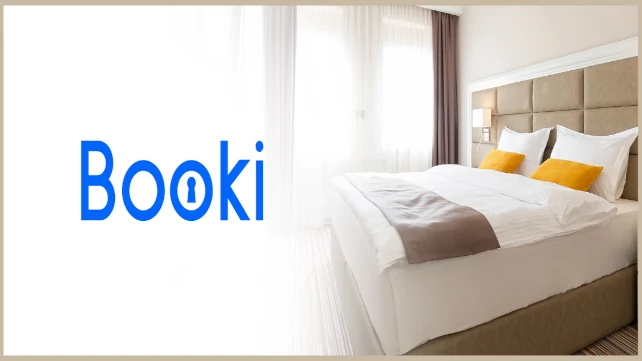
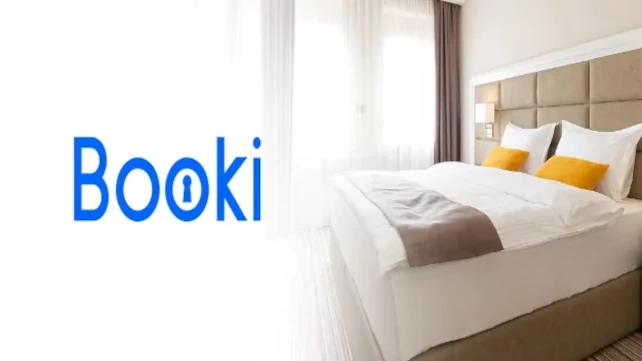
Améliorations des images et du contenu des pages du site (notamment : retouche des images pour une meilleure qualité + export des jpg et png au format webp)

diff --git a/index.html b/index.html
@@ -11,7 +11,7 @@
 <body>
     <!-- COUVERTURE -->
     <header class="cover">
-        <img class="cover-profile" src="images/profile.png"/>
+        <img class="cover-profile" src="images/profile.webp"/>
         <h1>Rafik Ben Sadi</h1>
         <p class="cover-description">Développeur Web & Web Mobile | Javascript - React - Node JS - Express JS - Python - Django</p>
         <div style="text-align: center;">
@@ -34,10 +34,10 @@
         <!-- SECTION BLANCHE -->
         <div class="section" >
             <h2>En savoir plus</h2>
-            <img src="images/profile2.jpg" class="col-contenu">
+            <img src="images/profile2.webp" class="col-contenu">
             <div class="col-contenu float-right">
                 <div class="texte-avec-ligne-verticale">
-                    <p class="texte-profile-description">Développeur FullStack curieux, autodidacte et passionné par les technologies numériques depuis l'enfance, j'ai fait mes premières armes en programmation à 10 ans en apprenant par moi-même les bases du langage C grâce à des ouvrages dénichés dans la bibliothèque paternelle. Après un parcours universitaire d'historien-chercheur, j'ai décidé de me reconvertir dans le développement informatique en suivant les cours sur le langage Python de Jonathan Roux sur Udemy.com. Enfin, je me suis spécialisé dans le développement Web en suivant le parcours diplomant d'OpenClassrooms.com (anciennement Site du Zéro). <br>Au fil de mon parcours dans le développement, j'ai réalisé de nombreux projets très divers : des programmes simples en mode console, par exemple le "Jeu de Maths" pour les écoliers ayant besoin de réviser leurs maths avant un contrôle. J'ai également réalisé des programmes plus complexes comme des logiciels desktop, à l'image de "MrBeat", une boîte à rythmes digitale, ou de "Galaxy", un jeu vidéo de parcours d'un vaisseau spatial en 3D isométrique. Enfin, j'ai réalisé un certain nombre de projets Web et Web mobile, dont vous pouvez avoir un bel aperçu dans la section Portfolio qui suit.</p>
+                    <p class="texte-profile-description">Développeur fullstack curieux, autodidacte et passionné par les technologies numériques depuis l'enfance, j'ai fait mes premières armes en programmation à 10 ans en apprenant par moi-même les bases du langage C grâce à des ouvrages dénichés dans la bibliothèque paternelle. Après un parcours universitaire d'historien-chercheur, j'ai décidé de me reconvertir dans le développement informatique en suivant les cours sur le langage Python de Jonathan Roux sur Udemy.com. Enfin, je me suis spécialisé dans le développement Web en suivant le parcours diplomant d'OpenClassrooms.com (anciennement Site du Zéro). <br>Au fil de mon parcours dans le développement, j'ai réalisé de nombreux projets très divers : des programmes simples en mode console, par exemple le "Jeu de Maths" pour les écoliers ayant besoin de réviser leurs maths avant un contrôle. J'ai également réalisé des programmes plus complexes comme des logiciels desktop, à l'image de "MrBeat", une boîte à rythmes digitale, ou de "Galaxy", un jeu vidéo de parcours d'un vaisseau spatial en 3D isométrique. Enfin, j'ai réalisé un certain nombre de projets Web et Web mobile, dont vous pouvez avoir un bel aperçu dans la section Portfolio qui suit.</p>
                     <a href="#">En savoir plus sur mon profil</a>
                 </div>
             </div>
@@ -49,7 +49,7 @@
             <table class="col-portfolio" style="display: inline-block">
                 <tr>
                     <td><div class="barre-verticale"></div></td>
-                    <td style="width: 100%"><a href="portfolio-site-restaurant.html"><img style="width: 100%" src="images/project1.jpg"></a></td>
+                    <td style="width: 100%"><a href="portfolio-site-restaurant.html"><img style="width: 100%" src="images/pizzamama.webp"></a></td>
                 </tr>
                 <tr>
                     <td></td>
@@ -59,7 +59,7 @@
             <table class="col-portfolio float-right">
                 <tr>
                     <td><div class="barre-verticale"></div></td>
-                    <td style="width: 100%"><a href="portfolio-booki-agence-de-voyage.html"><img style="width: 100%" src="images/booki_project.webp"></a></td>
+                    <td style="width: 100%"><a href="portfolio-booki-agence-de-voyage.html"><img class="image-bordered" style="width: 100%" src="images/booki_project.webp"></a></td>
                 </tr>
                 <tr>
                     <td></td>
@@ -89,7 +89,7 @@
             <table class="col-portfolio" style="display: inline-block">
                 <tr>
                     <td><div class="barre-verticale"></div></td>
-                    <td style="width: 100%"><a href="portfolio-kasa.html"><img style="width: 100%" src="images/kasa_location_immobiliere.webp"></a></td>
+                    <td style="width: 100%"><a href="portfolio-kasa.html"><img class="image-bordered" style="width: 100%" src="images/kasa_location_immobiliere.webp"></a></td>
                 </tr>
                 <tr>
                     <td></td>
@@ -99,7 +99,7 @@
             <table class="col-portfolio float-right">
                 <tr>
                     <td><div class="barre-verticale"></div></td>
-                    <td style="width: 100%"><a href="portfolio-application-mobile-ai.html"><img style="width: 100%" src="images/project2.jpg"></a></td>
+                    <td style="width: 100%"><a href="portfolio-application-mobile-ai.html"><img style="width: 100%" src="images/mon_vieux_grimoire.webp"></a></td>
                 </tr>
                 <tr>
                     <td></td>

diff --git a/portfolio-kasa.html b/portfolio-kasa.html
@@ -31,10 +31,10 @@
         <!-- SECTION CONTENU -->
         <div class="section" >
             <div class="texte-avec-ligne-verticale">
-                Kasa, leader depuis près de 10 ans de la location d'appartements entre particuliers en France a fait appel à mes services de développeur frontend afin de développer leur nouvelle plateforme Web. Ce projet a été particulièrement enrichissant pour moi, car il m'a permis d'acquérir la maîtrise de l'un des frameworks frontend les plus populaires sur le marché mondial : ReactJS. Qui plus est, ce projet m'a également servi de terrain d'expérimentation pour d'autres technologies, liées au CSS (c'est à dire pour styliser le contenu du site Web) comme SASS, la convention BEM ou encore les animations CSS avec la propriété "transform". Le résultat ? Un site ergonomique, adapté à toutes les tailles d'écran, avec une excellente expérience utilisateur.<br><br><u>Technologies utilisées</u> : <b>HTML5, CSS3, SASS, FIGMA, REACTJS, API.</b>
+                Kasa, leader depuis près de 10 ans de la location d'appartements entre particuliers en France a fait appel à mes services de développeur frontend afin de développer leur nouvelle plateforme Web. Ce projet a été particulièrement enrichissant pour moi, car il m'a permis d'acquérir la maîtrise de l'un des frameworks frontend les plus populaires sur le marché mondial : ReactJS. Qui plus est, ce projet m'a également servi de terrain d'expérimentation pour d'autres technologies, liées au CSS (c'est à dire pour styliser le contenu du site Web) comme SASS, la convention BEM ou encore les animations CSS avec la propriété "transform". Le résultat ? Un site ergonomique, adapté à toutes les tailles d'écran, avec une excellente expérience utilisateur.<br><br><u>Technologies utilisées</u> : <b>HTML5, CSS3, SASS, FIGMA, REACTJS.</b>
             </div>
             <div style="text-align: center; margin-top: 30px">
-                <a href="#"><img class="portfolio" src="images/kasa_location_immobiliere.webp"></a>
+                <a href="#"><img class="portfolio image-bordered" src="images/kasa_location_immobiliere.webp"></a>
                 <a style="display: block; margin-top: 8px" href="#">Consulter le projet</a>
             </div>
         </div>

diff --git a/portfolio-booki-agence-de-voyage.html b/portfolio-booki-agence-de-voyage.html
@@ -34,7 +34,7 @@
                 Ce projet a consisté en l'intégration de la page d'accueil de l'agence de voyage Booki. Le logiciel de design collaboratif en ligne Figma a été utilisé pour la maquette. Parfaitement respectueux de la sémantique du Web, il est une magnifique démonstration de ce qui se fait de mieux en HTML5 et CSS3 à l'heure actuelle. Conforme aux attentes exigées par le World Wide Web Consortium, il est parfaitement adapté à toutes les tailles d'écran (desktop, tablette et mobile) grâce à sa conception respectueuse du Responsive Design. Il reprend les dernières normes du HTML5 telles que la structuration Header/Main/Footer, ainsi que du CSS3 avec l'usage des boîtes flexibles pour le positionnement des éléments.<br><br><u>Technologies utilisées</u> : <b>HTML5, CSS3, FLEXBOX, FIGMA, icones FONT-AWESOME.</b>
             </div>
             <div style="text-align: center; margin-top: 30px">
-                <a href="https://rafikosaure.github.io/booki-agence-de-voyage/"><img class="portfolio" src="images/booki_project.webp"></a>
+                <a href="https://rafikosaure.github.io/booki-agence-de-voyage/"><img class="portfolio image-bordered" src="images/booki_project.webp"></a>
                 <a style="display: block; margin-top: 8px" href="https://rafikosaure.github.io/booki-agence-de-voyage/">Consulter le projet</a>
             </div>
         </div>

diff --git a/portfolio-site-restaurant.html b/portfolio-site-restaurant.html
@@ -33,7 +33,7 @@
                 Ce site Web a été ma première expérience en développement côté serveur, et le langage utilisé ici est le Python. Conçu avec le framework Django, il dispose d'une base de données locale recensant les meilleures pizzas de chez <i>Pizza Mama</i>, la pizzeria qu'il vous faut pour vos soirées entre amis ! Plus serieusement, le système utilisé par Django est simple : pour chaque page est créée une application, avec son propre modèle de données. Puis ce modèle sert à établir la structure des données enregistrées, selon le paradigme de la programmation orientée objet, afin d'effectuer les opérations de création, d'affichage ou de suppression des données. Ici, les objets sont simplement des pizzas, et le modèle de données inclue donc pour chaque "objet pizza" un nom, des ingrédients, un prix et enfin un tag qui précise si la pizza est ou non végétarienne.<br><br><u>Technologies utilisées</u> : <b>HTML5, CSS3, PYTHON, DJANGO, PYCHARM.</b>
             </div>
             <div style="text-align: center; margin-top: 30px">
-                <a href="#"><img class="portfolio" src="images/project1.jpg"></a>
+                <a href="#"><img class="portfolio" src="images/pizzamama.webp"></a>
                 <a style="display: block; margin-top: 8px" href="#">Consulter le projet</a>
             </div>
         </div>

diff --git a/contact-frame.html b/contact-frame.html
@@ -14,7 +14,7 @@
             <p class="frame-title">Parlons de votre projet</p>
             <table style="width: 100%">
                 <tr>
-                    <td valign="top" align="center"><img src="images/profile.png"></td>
+                    <td valign="top" align="center"><img src="images/profile.webp"></td>
                     <td>
                         <div class="texte-avec-ligne-verticale" style="margin-left: 20px">
                             <p>Besoin de discuter de votre projet et obtenir l'avis d'un expert ?<br><br>Contactez-moi par <a href="mailto:rafikbensadi@live.fr?subject=Contact%20depuis%20rafikbensadi.com">email</a> ou directement par téléphone au <a href="tel:+33649363839">06 49 36 38 39</a></p>

diff --git a/style.css b/style.css
@@ -21,7 +21,7 @@
         }
 
         header.cover {
-            background: url(images/cover_overlay.png) no-repeat center/100% 100%,url(images/cover.jpg) no-repeat center/cover;
+            background: url(images/cover_overlay.webp) no-repeat center/100% 100%,url(images/cover.webp) no-repeat center/cover;
             height: 360px;
             position: relative;
         }
@@ -211,7 +211,7 @@
         /* PORTFOLIO */
         .portfolio-header {
             height: 90px;
-            background: url(images/header.jpg) no-repeat center/cover;
+            background: url(images/header.webp) no-repeat center/cover;
             position: relative;
         }
 
